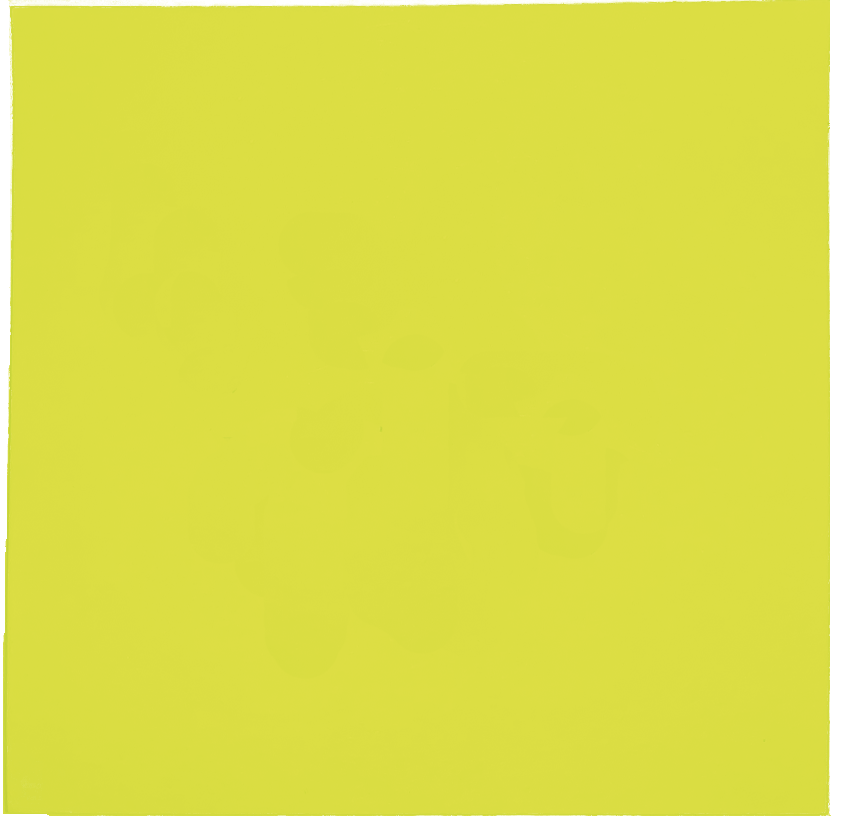
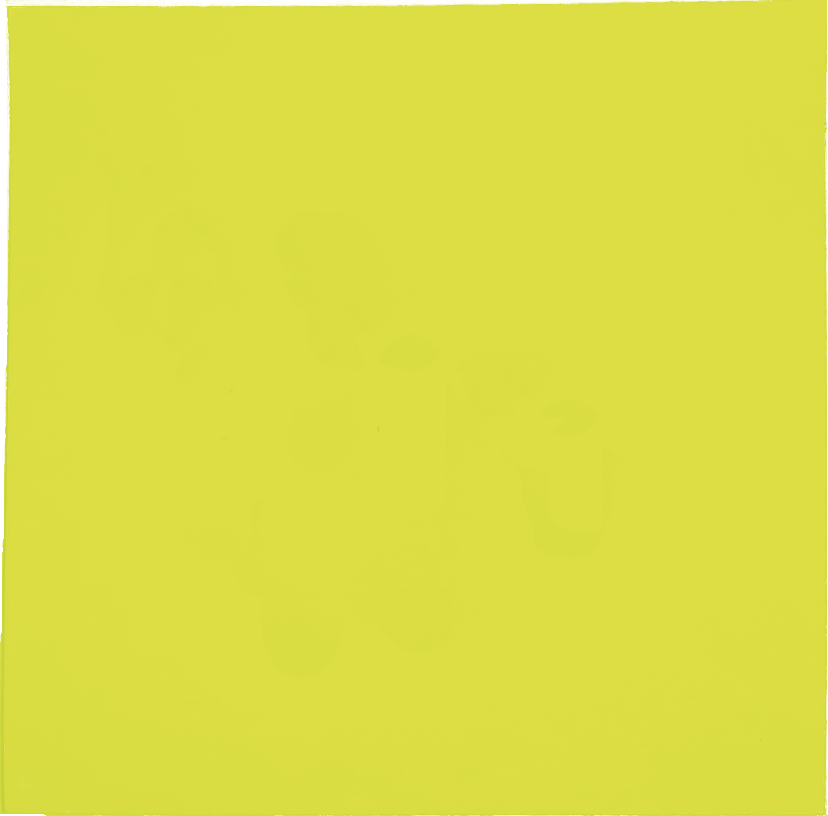
please: resolved randomize function

Changed region(s): [[0.9662, 0.0, 1.0, 1.0], [0.0, 0.0, 0.0302, 1.0], [0.4831, 0.9804, 0.7548, 1.0]]

diff --git a/please.nyc/index.html b/please.nyc/index.html
@@ -134,7 +134,10 @@
 
             var winWidth = window.innerWidth;
             var winHeight = window.innerHeight;
-            var centerPoint = { x: winWidth/2, y: winHeight/2 };
+            var centerPointM = { x: winWidth/2, y: winHeight/2 };
+            // Center thresholds for blocking random points
+            var centerPointL = { x: winWidth/2-(175), y: winHeight/2 };
+            var centerPointR = { x:  winWidth/2+(175), y: winHeight/2 };
 
             // function that returns a random number between a min and max
             function getRandomNumber(min, max) {
@@ -149,12 +152,12 @@
 
             function randomizePostIts() {
                 var postItArray = []; // storing array
-                postItArray.push(centerPoint); // push back center point
+                postItArray.push(centerPointL, centerPointM, centerPointR); // push back center points
 
                 for ( var i=0; i < productCardButtons.length; i++ ) {
                     var thisDiv = productCardButtons[i];
 
-                    var postItOffsetDistance = 200;
+                    var postItOffsetDistance = 150;
                     var newPoint;
                     var foundConflict = true;
 
@@ -164,11 +167,12 @@
 
                         var conflicts = 0;
 
-                        for ( var i=0; i < postItArray.length; i++) {
-                            console.log("Testing:", i, "Distance:", distance(newPoint, postItArray[i]), "Out of:", postItArray.length);
-                            if (distance(newPoint, postItArray[i]) < 150) {
+                        for ( var j=0; j < postItArray.length; j++) {
+                            var currentDist = distance(newPoint, postItArray[j]);
+                            console.log("Testing:", j, "Distance:", currentDist, "Out of:", postItArray.length);
+                            if (currentDist < postItOffsetDistance) {
                                 // too close!
-                                console.log("Conflict! Against:", i+": Distance:", distance(newPoint, postItArray[i]));
+                                console.log("Conflict! Against:", j+": Distance:", currentDist);
                                 conflicts++;
                             }
                         }
@@ -177,42 +181,6 @@
                             console.log("New Point: X="+newPoint.x+", Y="+newPoint.y);
                         } else {
                             console.log("Restarting with new point because of "+conflicts+" conflicts!")
-                        }
-                    }
-
-                    // Center thresholds for blocking random points
-                    var wCenterMin = winWidth/2-(winWidth*0.2);
-                    var wCenterMax = winWidth/2+(winWidth*0.2);
-                    var hCenterMin = winHeight/2-(winHeight*0.1);
-                    var hCenterMax = winHeight/2+(winHeight*0.1);
-                    if ((newPoint.x < wCenterMax) && (newPoint.x > wCenterMin)){
-                        // we are in the inside the center and should add/substract to the point
-                        if (newPoint.x > winWidth/2) {
-                            newPoint.x = newPoint.x - (wCenterMax-wCenterMin);
-                        } else if (newPoint.x < winWidth/2) {
-                            newPoint.x = newPoint.x + (wCenterMax-wCenterMin);
-                        } else {
-                            if (newPoint.x < winWidth/2){
-                                newPoint.x = newPoint.x + (hCenterMax-hCenterMin);
-                            }
-                            if (newPoint.x > winWidth/2){
-                                newPoint.x = newPoint.x - (hCenterMax-hCenterMin);
-                            }
-                        }
-                    }
-                    if ((newPoint.y < hCenterMax) && (newPoint.y > hCenterMin)){
-                        // we are in the inside the center and should add/substract to the point
-                        if (newPoint.y > winHeight/2) {
-                            newPoint.y = newPoint.y - (hCenterMax-hCenterMin);
-                        } else if (newPoint.y < winHeight/2) {
-                            newPoint.y = newPoint.y + (hCenterMax-hCenterMin);
-                        } else {
-                            if (newPoint.y < winHeight/2){
-                                newPoint.y = newPoint.y + (hCenterMax-hCenterMin);
-                            }
-                            if (newPoint.y > winHeight/2){
-                                newPoint.y = newPoint.y - (hCenterMax-hCenterMin);
-                            }
                         }
                     }
 
@@ -227,14 +195,13 @@
             }
 
             window.addEventListener("load", function() {
-                window.dispatchEvent(new Event('resize'));
                 randomizePostIts();
             });
-             
-            var doit; // used for timer check
-            window.onresize = function() {
-                clearTimeout(doit);
-                doit = setTimeout(randomizePostIts, 100);
+            window.addEventListener("resize", onresize);
+            var onresize = function(e) {
+                //width = e.target.outerWidth;
+                //height = e.target.outerHeight;
+                randomizePostIts();
             }
         </script>
         <script src="https://ajax.googleapis.com/ajax/libs/jquery/2.2.4/jquery.min.js"></script>

diff --git a/please.nyc/css/styles.css b/please.nyc/css/styles.css
@@ -123,7 +123,7 @@ body {
   font-family: sans-serif;
   flex-grow:1;
   width: 15vw;
-  max-width:200px;
+  max-width:150px;
   height:auto;
   position:absolute;
   /*padding:1.75em 1.5em 0 2em;*/
